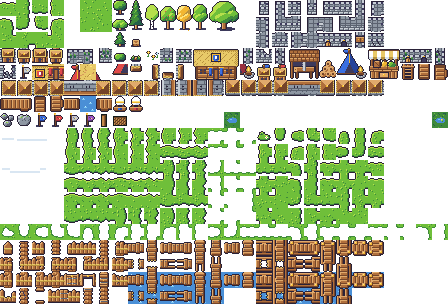
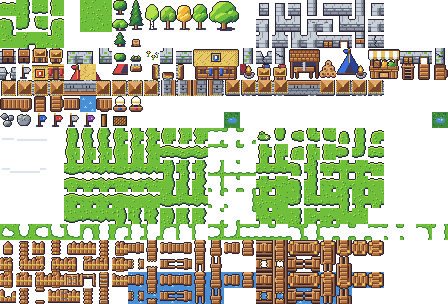
Draw thin caps and deeper fronts on stone walls

diff --git a/tools/art/gen_stone_wall_tiles.py b/tools/art/gen_stone_wall_tiles.py
@@ -1,0 +1,183 @@
+#!/usr/bin/env python3
+"""Redraw the stone and moss walls in the game atlas. Requires Pillow."""
+
+import re
+from pathlib import Path
+
+from PIL import Image, ImageDraw
+
+ROOT = Path(__file__).resolve().parents[2]
+ATLAS = ROOT / "art/flagoria/flagoria_tiles_v4.png"
+CATALOG = ROOT / "Scripts/world/tile_catalog.gd"
+COLORS = {
+    "outline": "#2a2238",
+    "shadow": "#3d3a5c",
+    "light": "#c9cfd6",
+    "stone": "#8e97a3",
+    "dark": "#5b6270",
+    "moss_light": "#6fbf3a",
+    "moss_dark": "#3f8a3c",
+    "wood_light": "#e0a96b",
+    "wood": "#b06f3c",
+    "wood_dark": "#74452a",
+    "gold": "#f2b632",
+    "gold_light": "#ffe680",
+}
+ARMS = {
+    "POST": "",
+    "END_N": "S",
+    "END_E": "W",
+    "END_S": "N",
+    "END_W": "E",
+    "H": "EW",
+    "V": "NS",
+    "CORNER_OUT_NW": "ES",
+    "CORNER_OUT_NE": "SW",
+    "CORNER_OUT_SW": "NE",
+    "CORNER_OUT_SE": "NW",
+    "T_N": "ESW",
+    "T_E": "NSW",
+    "T_S": "NEW",
+    "T_W": "NES",
+    "CROSS": "NESW",
+    "GATE_H": "EW",
+    "GATE_H_OPEN": "EW",
+    "GATE_V": "NS",
+    "H_DMG_CRACK": "EW",
+    "H_DMG_CHUNK": "EW",
+    "V_DMG_CRACK": "NS",
+    "H_BREACH": "EW",
+}
+
+
+def wall(name, moss=False):
+    arms = ARMS[name.replace("_IN_", "_OUT_")]
+    horizontal = not arms or "E" in arms or "W" in arms
+    image = Image.new("RGBA", (16, 16))
+    draw = ImageDraw.Draw(image)
+
+    def filled(x, y):
+        band = (
+            horizontal
+            and (x >= 3 or "W" in arms)
+            and (x <= 12 or "E" in arms)
+            and 3 <= y <= 15
+        )
+        north = "N" in arms and y <= (3 if horizontal else 15)
+        south = "S" in arms and y >= (8 if horizontal else 3)
+        return band or (3 <= x <= 12 and (north or south))
+
+    for y in range(16):
+        for x in range(16):
+            if not filled(x, y):
+                continue
+            if any(
+                not filled(x + dx, y + dy)
+                for dx, dy in ((0, -1), (1, 0), (0, 1), (-1, 0))
+            ):
+                color = "outline"
+            elif horizontal and not ("S" in arms and 3 <= x <= 12 and y >= 8):
+                if y <= 7:
+                    color = "stone" if (x + 2 * (y >= 6)) % 8 == 6 else "light"
+                elif y == 8:
+                    color = "dark"
+                elif y == 9:
+                    color = "light" if x % 8 < 5 else "stone"
+                elif y in (11, 14) or (x + 4 * (y >= 12)) % 8 == 6:
+                    color = "dark"
+                else:
+                    color = "stone"
+            elif x < 10:
+                # The six-column cap gives way to two columns of shaded side.
+                color = "stone" if y % 4 == 3 or x == 9 else "light"
+            else:
+                color = "stone" if x == 10 and y % 4 != 3 else "dark"
+
+            if moss and color not in ("outline", "shadow") and 1 < x < 14 and 1 < y < 14:
+                if (x + 2 * (y // 4)) % 9 in (1, 2, 3) and y % 4 in (0, 1):
+                    color = "moss_light" if color == "light" else "moss_dark"
+            draw.point((x, y), fill=COLORS[color])
+
+    if "_IN_" in name:
+        # Short recessed mortar line on the inside of the elbow.
+        x = 8 if "E" in arms else 5
+        y = 6 if "S" in arms else 9
+        draw.line((x, y, x + 2, y), fill=COLORS["dark"])
+    if name.startswith("GATE_"):
+        draw_gate(draw, name)
+    if name.endswith(("CRACK", "CHUNK", "BREACH")):
+        draw_damage(draw, name)
+    return image
+
+
+def draw_gate(draw, name):
+    if name == "GATE_V":
+        draw.rectangle((3, 6, 12, 11), fill=COLORS["outline"])
+        draw.rectangle((4, 7, 11, 10), fill=COLORS["wood"])
+        draw.line((4, 7, 11, 7), fill=COLORS["wood_light"])
+        draw.line((8, 8, 8, 10), fill=COLORS["wood_dark"])
+        draw.point((7, 9), fill=COLORS["gold"])
+        return
+
+    draw.rectangle((3, 9, 12, 15), fill=COLORS["outline"])
+    draw.line((4, 9, 11, 9), fill=COLORS["wood_dark"])
+    if name == "GATE_H_OPEN":
+        draw.rectangle((5, 10, 10, 15), fill=(0, 0, 0, 0))
+        draw.line((4, 10, 4, 14), fill=COLORS["wood"])
+        draw.line((11, 10, 11, 14), fill=COLORS["wood_dark"])
+        draw.point((4, 11), fill=COLORS["wood_light"])
+        return
+
+    draw.rectangle((4, 10, 11, 14), fill=COLORS["wood"])
+    draw.line((4, 10, 11, 10), fill=COLORS["wood_light"])
+    draw.line((4, 13, 11, 13), fill=COLORS["wood_dark"])
+    draw.line((8, 10, 8, 14), fill=COLORS["outline"])
+    draw.point([(6, 12), (9, 12)], fill=COLORS["gold"])
+
+
+def draw_damage(draw, name):
+    crack = [(7, 4), (6, 7), (8, 9), (6, 12), (8, 14)]
+    if name == "V_DMG_CRACK":
+        crack = [(4, 5), (6, 6), (7, 8), (10, 8), (11, 10)]
+    draw.line(crack, fill=COLORS["outline"])
+    if name in ("H_DMG_CHUNK", "H_BREACH"):
+        draw.polygon([(5, 3), (11, 3), (11, 6), (8, 8), (6, 7)], fill=(0, 0, 0, 0))
+        draw.line([(5, 4), (6, 8), (8, 9), (11, 7), (11, 4)], fill=COLORS["outline"])
+    if name == "H_BREACH":
+        draw.polygon([(6, 9), (8, 10), (10, 8), (11, 15), (5, 15)], fill=(0, 0, 0, 0))
+        draw.line([(6, 9), (5, 14), (5, 15)], fill=COLORS["outline"])
+        draw.line([(10, 9), (10, 13), (11, 15)], fill=COLORS["outline"])
+
+
+def archer_post(axis):
+    image = wall(axis)
+    draw = ImageDraw.Draw(image)
+    draw.rectangle((2, 1, 13, 14), fill=COLORS["outline"])
+    draw.rectangle((3, 2, 12, 13), fill=COLORS["wood_dark"])
+    draw.rectangle((3, 2, 12, 8), fill=COLORS["wood_light"])
+    draw.rectangle((4, 3, 11, 7), fill=COLORS["wood"])
+    draw.line((3, 8, 12, 8), fill=COLORS["outline"])
+    draw.line((4, 9, 11, 9), fill=COLORS["wood"])
+    draw.rectangle((7, 10, 8, 13), fill=COLORS["outline"])
+    draw.point((7, 5), fill=COLORS["gold_light"])
+    return image
+
+
+def main():
+    with Image.open(ATLAS) as source:
+        atlas = source.convert("RGBA")
+    for name, x, y in re.findall(r"const (\w+) := Vector2i\((\d+), (\d+)\)", CATALOG.read_text()):
+        if name.startswith("WALL_MOSS_"):
+            image = wall(name.removeprefix("WALL_MOSS_"), moss=True)
+        elif name.startswith("WALL_"):
+            image = wall(name.removeprefix("WALL_"))
+        elif name in ("ARCHER_POST_STONE_H", "ARCHER_POST_STONE_V"):
+            image = archer_post(name[-1])
+        else:
+            continue
+        atlas.paste(image, (16 * int(x), 16 * int(y)))
+    atlas.save(ATLAS, optimize=True)
+
+
+if __name__ == "__main__":
+    main()

diff --git a/.cursor/skills/verify-flagoria/features/README.md b/.cursor/skills/verify-flagoria/features/README.md
@@ -100,6 +100,7 @@ Maintained recipes for proving user-facing and CI-facing behavior. Read this ind
 - [Castle siege](./castle-siege.md) — breach a starting castle and capture its lowered flag (#782).
 - [Building health](./building-health.md) — sword and bomb damage, building destruction, and saved HP (#763).
 - [Wall and tower junctions](./wall-junctions.md) — mask pieces, collar overlays on stone, tower ring with the team flag, far corner flips when a loop closes.
+- [Stone wall fronts](./stone-wall-fronts.md) — thin caps and visible masonry courses on stone and moss walls.
 - [Walls and bridges](./walls-and-bridges.md) — wall solver and plank bridges, live via the build picker.
 - [Bridge joins](./bridge-joins.md) — adjoining plank placements share plain interior planks; rope and tips stay on shores and open ends (#416).
 - [Audio](./audio.md) — buses, music, combat, UI and mob SFX, footsteps, `audio_check` gate.

diff --git a/.cursor/skills/verify-flagoria/features/stone-wall-fronts.md b/.cursor/skills/verify-flagoria/features/stone-wall-fronts.md
@@ -1,0 +1,13 @@
+# Stone wall fronts
+
+Drive: drives/stone_wall_fronts.gd
+Source: Scripts/mechanics/walls/wall_solver.gd
+
+Stone and moss walls show a five-pixel-deep horizontal cap and a
+six-pixel-wide vertical cap with a shaded side. The front spans two stone
+courses. Both stone archer-post variants share their joining edges with the
+corresponding run.
+
+Host a game to see the starting castle walls. The drive hosts with seed 11
+and captures the castle from the spawn. Compare the north horizontal run,
+both vertical runs and the four corners in the `wall-runs-and-corners` frame.
